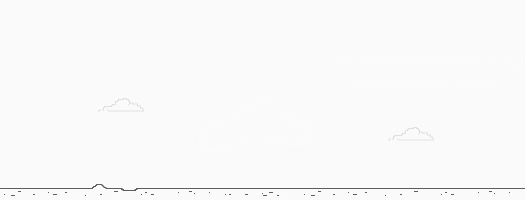
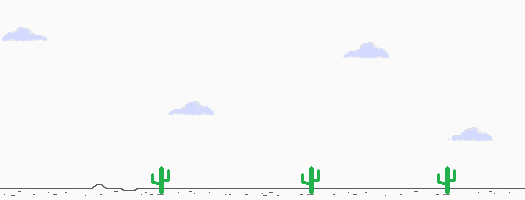
Add sun on bg + animation, changed bg

diff --git a/style.css b/style.css
@@ -1,5 +1,5 @@
-body{
-    min-height: 900px;
+body {
+    min-height: 500px;
 }
 .container {
     position: relative;
@@ -9,13 +9,24 @@ body{
     flex-direction: row;
     justify-content: center;
     margin-top: 20px;
-    border-bottom: 1px solid black;
     margin-top: 50px;
     margin-bottom: 50px;
-    border: 1px solid black;
-    background-image: url(img/background.png);
 }
-
+#background {
+    position: absolute;
+    left: 0;
+    width: 100%;
+    height: 100%;
+    background: url("img/background.png");
+    background-repeat: repeat;
+    background-size: auto 100%;
+    animation: backgroundMove 150s linear infinite;
+}
+@keyframes backgroundMove {
+    to {
+        background-position: -10000px 0;
+    }
+}
 #dino {
     width: 50px;
     height: 70px;
@@ -27,7 +38,7 @@ body{
 }
 #cactus {
     position: absolute;
-    left: 570px;
+    right: 20px;
     width: 40px;
     height: 40px;
     top: 162px;
@@ -35,6 +46,25 @@ body{
     background-size: 40px 40px;
     animation: cactusMov 2s infinite linear;
 }
+#sun {
+    position: absolute;
+    top: -85px;
+    left: 10px;
+    width: 250px;
+    height: 250px;
+    scale: 0.25;
+    background-image: url("img/Sun.png");
+    animation: sunTurn 3s infinite linear;
+}
+@keyframes sunTurn {
+    0% {
+        transform: rotate(0deg);
+    }
+    100% {
+        transform: rotate(36deg);
+    }
+}
+
 .alert {
     position: absolute;
     font-size: 30px;
@@ -94,7 +124,55 @@ body{
 }
 
 /* MEDIA */
+@media (max-width: 480px) {
+    .container {
+        width: 460px;
+        border: none;
+        margin-top: 30px;
+        background-image: url(img/background.png) cover;
+    }
+    .alert {
+        position: absolute;
+        font-size: 20px;
+        top: 75px;
+    }
 
+    #cactus {
+        left: 300px;
+    }
+    .btn_refresh {
+        width: 80px;
+        height: 30px;
+        top: 15px;
+        right: 15px;
+        font-size: 14px;
+        border-radius: 5px;
+    }
+
+    @keyframes jump {
+        0% {
+            top: 125px;
+        }
+        50% {
+            top: 55px;
+        }
+        100% {
+            top: 125px;
+        }
+    }
+
+    @keyframes cactusMov {
+        0% {
+            left: 300px;
+        }
+        50% {
+            left: 150px;
+        }
+        100% {
+            left: -5px;
+        }
+    }
+}
 @media (max-width: 360px) {
     .container {
         width: 340px;

diff --git a/script.js b/script.js
@@ -5,14 +5,16 @@ const btn = document.querySelector(".btn_refresh");
 
 //с этим участком работает touch на версии мобильной
 const touchedElement = document.getElementById("body");
-touchedElement.addEventListener("touchstart", funcTouchStart, false);
+touchedElement.addEventListener("touchstart", funcTouchStart, true);
 function funcTouchStart() {
     jump();
 }
 //^
-
+document.addEventListener("click", function (event) {
+    jump();//mouseclick
+});
 document.addEventListener("keypress", function (event) {
-    jump();
+    jump();//keyboard any keypress (except shift,ctrl,tab,exc ext)
 });
 
 function jump() {
@@ -24,21 +26,21 @@ function jump() {
     }, 1000);
 }
 
-let isAlive = setInterval(function () {
-    let dinoTop = parseInt(
-        window.getComputedStyle(dino).getPropertyValue("top")
-    );
-    let cactusLeft = parseInt(
-        window.getComputedStyle(cactus).getPropertyValue("left")
-    );
-    if (cactusLeft <= 70 && dinoTop > 110 && cactusLeft > 20) {
-        alert.style.display = "block";
-        dino.style.animationPlayState = "paused";
-        cactus.style.animationPlayState = "paused";
-        btn.style.display = "block";
-        clearInterval(timer);
-    }
-}, 10);
+// let isAlive = setInterval(function () {
+//     let dinoTop = parseInt(
+//         window.getComputedStyle(dino).getPropertyValue("top")
+//     );
+//     let cactusLeft = parseInt(
+//         window.getComputedStyle(cactus).getPropertyValue("left")
+//     );
+//     if (cactusLeft <= 70 && dinoTop > 110 && cactusLeft > 20) {
+//         alert.style.display = "block";
+//         dino.style.animationPlayState = "paused";
+//         cactus.style.animationPlayState = "paused";
+//         btn.style.display = "block";
+//         clearInterval(timer);
+//     }
+// }, 10);
 
 //Timer
 let secondsLabel = document.getElementById("seconds");

diff --git a/index.html b/index.html
@@ -11,6 +11,8 @@
     </head>
     <body id="body">
         <div class="container">
+            <div id="background"></div>
+            <div id="sun"></div>
             <div class="timer">
                 <div class="seconds" id="seconds">0</div>
             </div>
